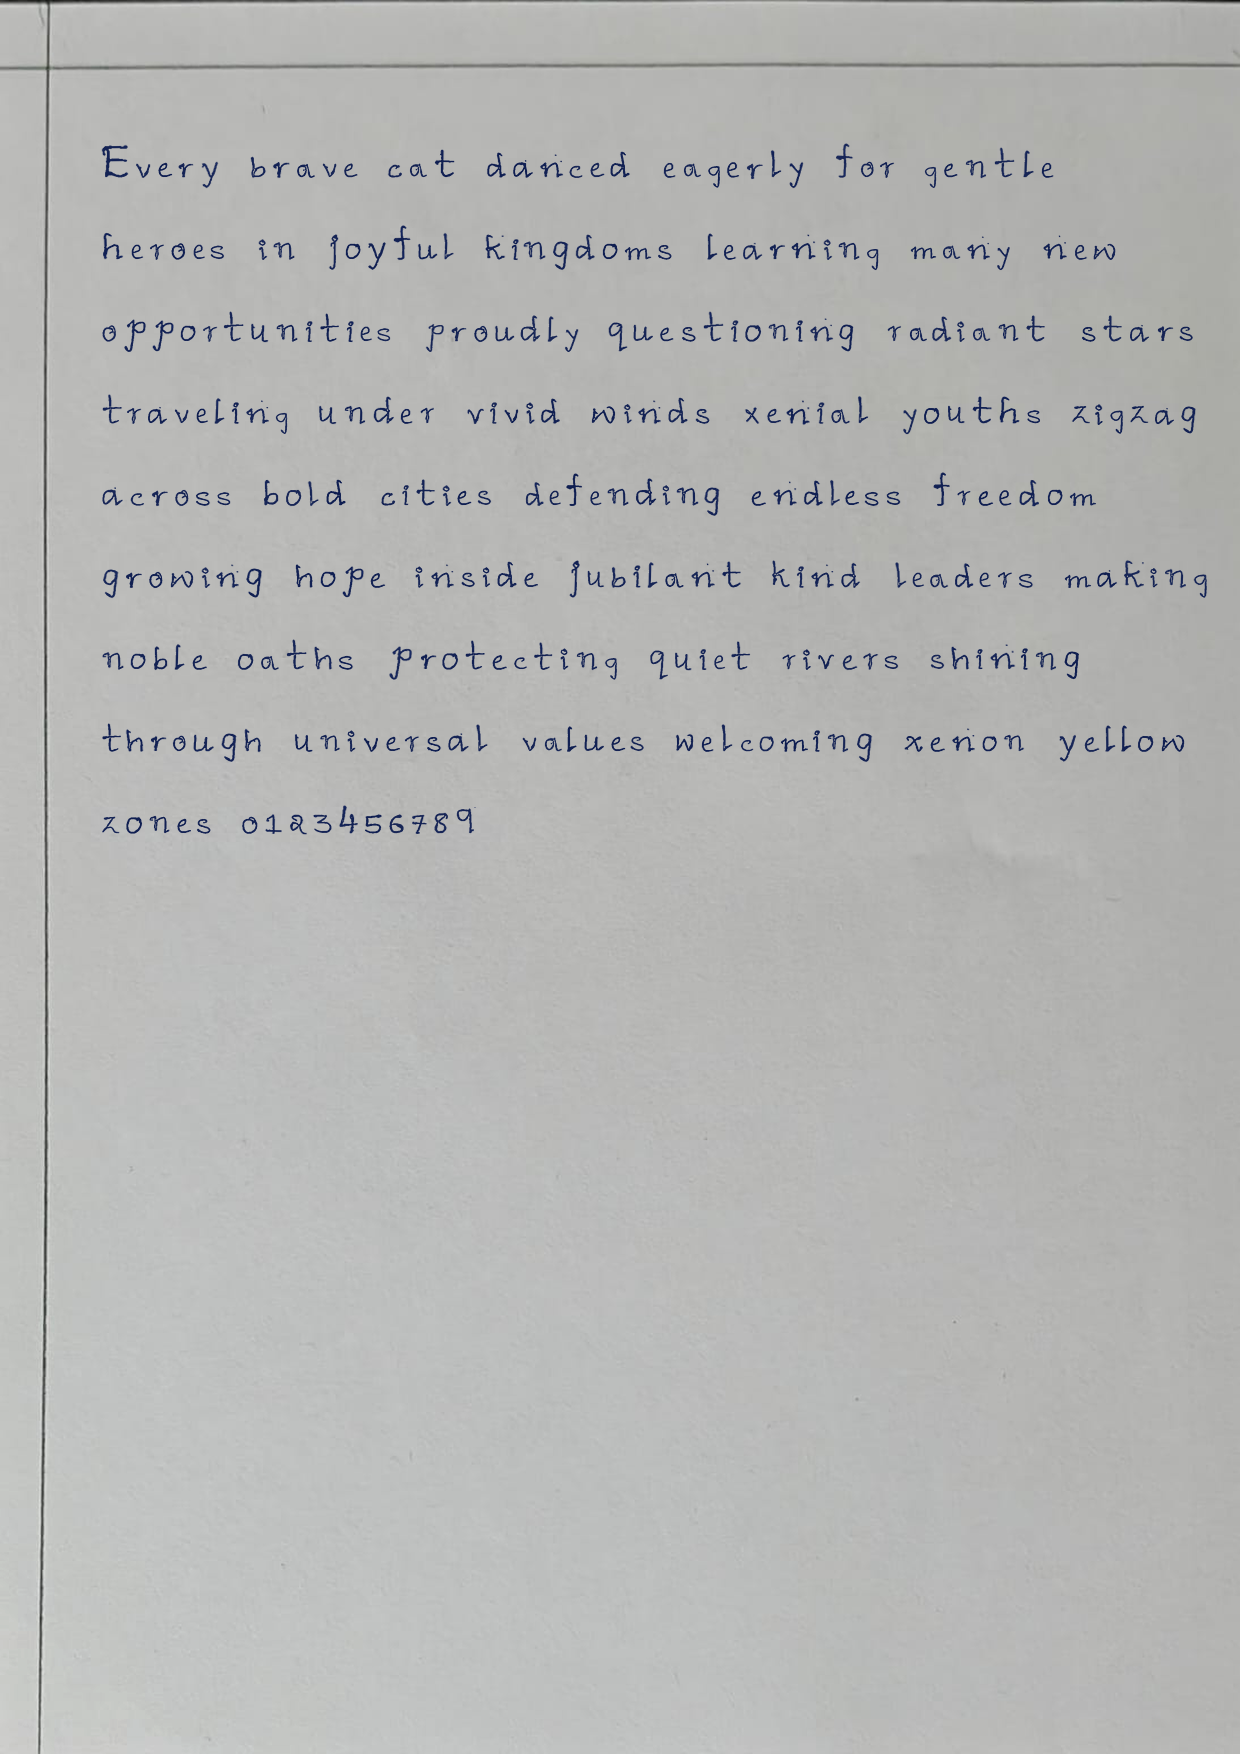
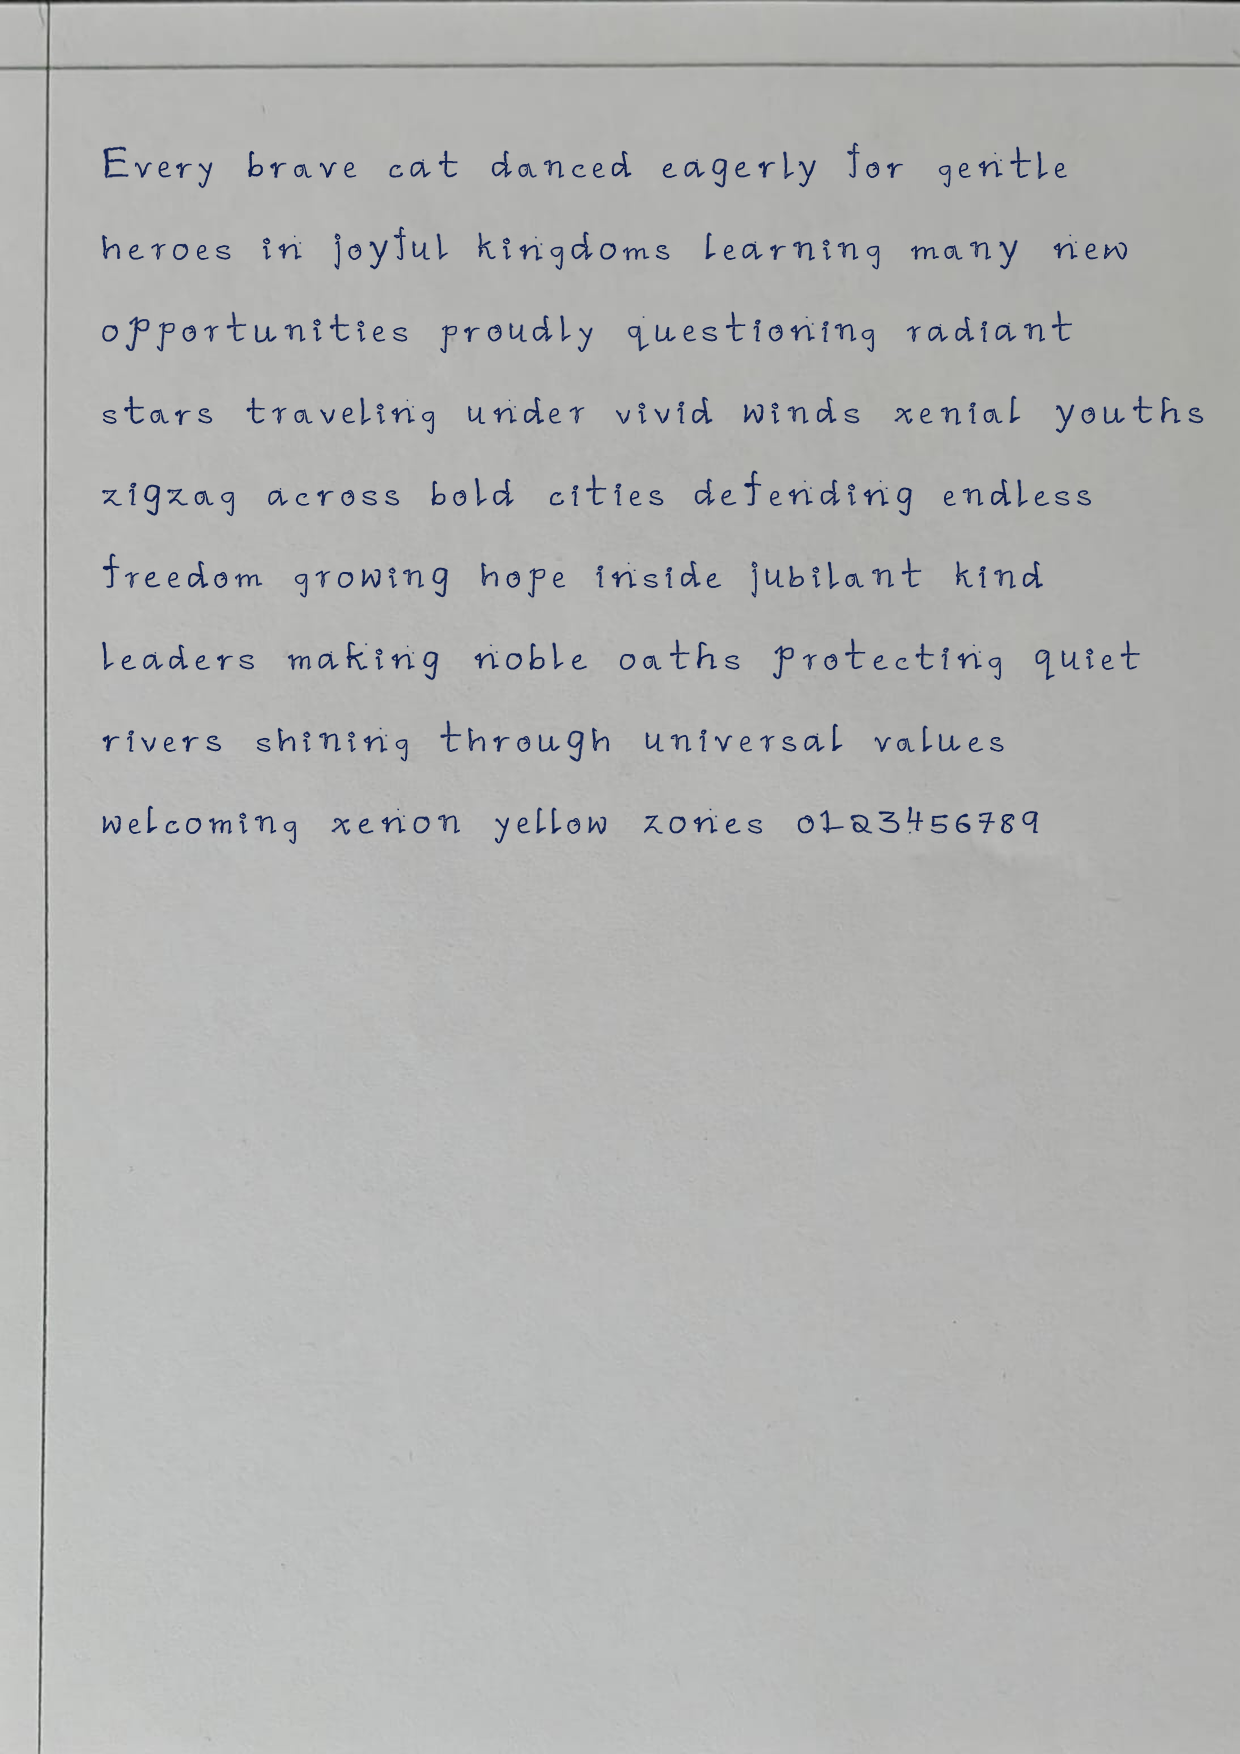
morning 07-04

diff --git a/projects/renderer.py b/projects/renderer.py
@@ -19,8 +19,8 @@ DEFAULT_CFG = {
     "background_file": "ruled.png",
 
     "glyphs_dir": "glyph_sets",
-    "glyph_size": 42,
-    "render_scale_multiplier": 1.36,
+    "glyph_size": 44,
+    "render_scale_multiplier": 1.42,
 
     "line_height": 82,
 
@@ -37,7 +37,7 @@ DEFAULT_CFG = {
 
     "pressure_min": 0.90,
     "pressure_max": 0.98,
-    "stroke_gain": 1.20,
+    "stroke_gain": 1.28,
     "edge_roughness": 0.0,
     "texture_blend": 0.08,
 }
